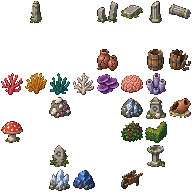
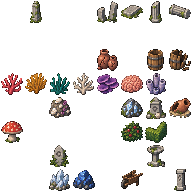
Replace the global pillar with selected tall pillar art

Changed region(s): [[0.9062, 0.875, 0.9688, 1.0]]

diff --git a/src/render.js b/src/render.js
@@ -4779,19 +4779,8 @@ Render.objectAppearance = function (scene, houseRoles) {
     // Stone pillar — decorative stand-in for OSM utility poles / posts.
     // Purely decorative: no interact.js branch matches 'pole', so taps fall
     // through.
-    // pillar.png is authored at 16px-per-cell (a 16×32 frame = 1 cell wide × 2
-    // tall in its native grid), but the game renders at 32px-per-cell (CELL_PX),
-    // like every other object sheet (trees are 32×48, etc.). At scale 1.0 the
-    // pole therefore drew at HALF size — a thin half-cell-wide stub — which read
-    // as "only half the sprite rendered". scale 2.0 maps the 16px art onto the
-    // 32px cell so it stands a full cell wide and ~2 cells tall (a proper pole);
-    // the seat pass then seats the now-taller-than-a-cell sprite with its base
-    // 1px above the cell's bottom edge (same as a tree).
-    // pillar.png's column art is symmetric and frame-centred (the earlier
-    // slice was cut off on the top and left; the art was redrawn complete),
-    // so a plain frame-centred origin works — the seat pass refines the
-    // final offsets from the trimmed bounds.
-    pole:   { key: 'pillar', origin: [0.5, 0.95], scale: 2.0, seat: true, shadow: true },
+    // Approved 24px pillar fills a 32px cell; shared by every mapped pole.
+    pole:   { key: 'pillar', frame: 0, origin: [0.5, 0.5], scale: 4 / 3, seat: true, shadow: true },
     // STREET VARIANT PROPS (src/street_variants.js). All 16px generated art
     // drawn at 1.6 (~26px) and SEATED in their one cell. The waystone stands
     // (a tap reads a page of the Book — INTERACTABLES.waystone); the tar pit

diff --git a/tools/sprite_audit.js b/tools/sprite_audit.js
@@ -254,7 +254,7 @@ const SHEETS = {
   mineralrock:   { file: 'assets/Objects/Approved/mineralrock.png',fw: 16, fh: 16, frames: [168, 169, 170, 171, 0, 1, 2, 3, 5, 6] },
   approved_charred_stakes: { file: 'assets/Objects/Approved/approved_charred_stakes.png', fw: 16, fh: 16, frames: [0] },
   well:          { file: 'assets/Objects/Wilderness/well.png',               fw: 30, fh: 32, frames: [0] },
-  pillar:        { file: 'assets/Objects/Approved/pillar.png',             fw: 16, fh: 32, frames: [0] },
+  pillar:        { file: ASSETS.pillar.path, fw: 24, fh: 24, frames: [0] },
   scarecrow:     { file: 'assets/Objects/Approved/scarecrow.png',               fw: 48, fh: 48, frames: [0] },
   bonfire:       { file: 'assets/Objects/Wilderness/bonfire.png',            fw: 16, fh: 32, frames: [0] },
   torch:         { file: 'assets/Objects/Wilderness/torch.png',              fw: 16, fh: 32, frames: [0] },
@@ -313,7 +313,7 @@ const SCENARIOS = [
   { name: 'crystal deposit', key: 'crystal_cluster', frameIdx: 0, scale: 1.28 },
   { name: 'ore rock',        key: 'mineralrock',   frameIdx: 0,   scale: 1.28 },
   { name: 'well',            key: 'well',          frameIdx: 0, scale: 0.9 },
-  { name: 'pole (pillar)',   key: 'pillar',        frameIdx: 0, scale: 2.0 },
+  { name: 'pole (pillar)',   key: 'pillar',        frameIdx: 0, scale: 4 / 3 },
   { name: 'scarecrow',       key: 'scarecrow',     frameIdx: 0, scale: 0.6 },
   { name: 'bonfire',         key: 'bonfire',       frameIdx: 0, scale: 1.1 },
   { name: 'torch',           key: 'torch',         frameIdx: 0, scale: 1.1 },

diff --git a/src/assets.js b/src/assets.js
@@ -154,15 +154,9 @@ const ASSETS = {
   pine_tree:     { kind: 'spritesheet', path: 'assets/Objects/Approved/pine_tree.png',     frameWidth: 32, frameHeight: 48 },
   // Mineral-bearing rocks — 176x272 sheet of 16x16 frames.
   mineralrock:    { kind: 'spritesheet', path: 'assets/Objects/Approved/mineralrock.png', frameWidth: 16, frameHeight: 16 },
-  // Stone pillar — 16×32 (1 cell wide × 2 tall): a fluted column with cap +
-  // stepped base. Originally sliced from a gitignored source sheet, but the
-  // slice rect clipped the column's top and left edge ("pole art is cut off"),
-  // so the art was redrawn complete and symmetric in the same palette. Used as
-  // a purely decorative stand-in for OSM utility poles / posts (power=pole,
-  // man_made=mast, barrier=bollard, highway=street_lamp) — no interaction.
-  // Authored at 16px-per-cell, so RENDER_SPEC.pole draws it at scale 2.0 to
-  // match the game's 32px cell (1 cell wide × ~2 tall — a full-height pole).
-  pillar:         { kind: 'image', path: 'assets/Objects/Approved/pillar.png' },
+  // Selected tall pillar (#63), replacing the global mapped-pole sprite.
+  // One 24px frame displayed in a 32px cell; purely decorative as before.
+  pillar:         { kind: 'spritesheet', path: 'assets/Objects/ZoneVariants/tall_pillar.png', frameWidth: 24, frameHeight: 24 },
   // STREET VARIANTS (src/street_variants.js): the generated 16px props (see
   // assets/Objects/Generated/README.md — placeholders): the pilgrim's
   // waystone, the barricade, and the burned row's tar pit and iron stakes

diff --git a/index.html b/index.html
@@ -2740,7 +2740,7 @@
   <script src="src/quarry_layout.js?v=ef68626f"></script>
   <script src="src/zone_dressing.js?v=829394d0"></script>
   <script src="src/reef_layout.js?v=4f859489"></script>
-  <script src="src/sprite_layout.js?v=c4782d90"></script>
+  <script src="src/sprite_layout.js?v=eef07e43"></script>
   <script src="src/placed_floor.js?v=d6c42e37"></script>
   <script src="src/home.js?v=e3fcba80"></script>
   <script src="src/coords.js?v=bbbf323b"></script>
@@ -2783,11 +2783,11 @@
   <script src="src/interact.js?v=eb9c43f1"></script>
   <script src="src/play_tips.js?v=e68833b6"></script>
   <script src="src/lighting.js?v=8dc03d32"></script>
-  <script src="src/render.js?v=8c8989f2"></script>
+  <script src="src/render.js?v=39f6cfd9"></script>
   <script src="src/multiplayer.js?v=04fb3ba8"></script>
   <script src="src/road_overlay.js?v=990bf881"></script>
   <script src="src/building_overlay.js?v=18003bd2"></script>
-  <script src="src/assets.js?v=4cf63482"></script>
+  <script src="src/assets.js?v=faf44a87"></script>
   <script src="src/sandbox.js?v=9377bbd1"></script>
   <script src="src/testtools.js?v=e112a59e"></script>
   <script src="src/geo.js?v=0a205c42"></script>

diff --git a/src/sprite_layout.js b/src/sprite_layout.js
@@ -69,7 +69,7 @@
     'mineralrock:6': { fw: 16, fh: 16, minX: 2, minY: 4, maxX: 13, maxY: 14 },
     'approved_charred_stakes:0': { fw: 16, fh: 16, minX: 4, minY: 0, maxX: 12, maxY: 16 },
     'well:0': { fw: 30, fh: 32, minX: 2, minY: 0, maxX: 30, maxY: 32 },
-    'pillar:0': { fw: 16, fh: 32, minX: 1, minY: 0, maxX: 15, maxY: 28 },
+    'pillar:0': { fw: 24, fh: 24, minX: 6, minY: 1, maxX: 18, maxY: 23 },
     'scarecrow:0': { fw: 48, fh: 48, minX: 3, minY: 8, maxX: 45, maxY: 47 },
     'bonfire:0': { fw: 16, fh: 32, minX: 1, minY: 9, maxX: 14, maxY: 31 },
     'torch:0': { fw: 16, fh: 32, minX: 5, minY: 5, maxX: 12, maxY: 32 },

diff --git a/sw.js b/sw.js
@@ -9,7 +9,7 @@
 //      so they're safe to cache forever. Strategy: cache-first with network
 //      fallback. This makes a visited region playable offline.
 
-const SHELL_VERSION = 'shell-9d51bb6a';
+const SHELL_VERSION = 'shell-5df232cd';
 const TILE_CACHE    = 'tiles-v1';
 // How old a cached tile may get before it is refreshed IN THE BACKGROUND. It
 // is never an expiry: a stale tile is still served, and a failed refresh keeps

diff --git a/tools/preview_zone_objects.py b/tools/preview_zone_objects.py
@@ -94,7 +94,7 @@ assign(58,59,'Variant','Quarries; Mystic Reef (optional)','Existing crystal-depo
 assign(60,60,'Variant','Stone Garden; Silent Circle','Existing shrine-role art candidate; no one-to-one replacement assigned.',('grove_votive',0),'Existing generic shrine reference')
 assign(61,61,'New prop','Abandoned Quarry; Work Yard; Broken Depot','New decorative handcart. The generated sprite is wooden; no transport or storage mechanic defined.')
 assign(62,62,'New prop','Broken Masonry; Ruined Stronghold','New stacked-column-drum decoration.')
-assign(63,63,'Zone-replacement','Silent Circle; Stone Garden; Ruined Stronghold','Replace stone-marker objects with a new tall-pillar type only in these zones. Preserve global stones and utility poles; interactions remain to be specified.',('mineralrock',171),'Current churchyard stone marker')
+assign(63,63,'Total-replacement','Global pillar / mapped pole locations','Replaces the existing pillar sprite everywhere it is used. Same decorative mapped-pole role; selected 24px art displayed at32px.',('pillar',0),'Previous global stone pillar')
 
 rows = [r for r in rows if r['frame'] in selection['selectedFrames']]
 for r in rows:
@@ -145,7 +145,7 @@ for r in rows:
     body.append(f'''<tr data-status="{r['status']}" data-type="{r['category']}"><td><small>R{r['row']+1} C{r['column']+1} · #{r['frame']}</small><strong>{esc(name)}</strong></td><td><div class="newart"><div class="cell"><img src="{r['image']}" width="32" height="32" alt="{esc(name)}"></div><img class="zoom" src="{r['image']}" width="96" height="96" alt="{esc(name)} enlarged"></div><small>32px cell · 3× detail</small>{used}</td><td>{oldhtml}</td><td><span class="badge {r['status'].lower()}">{r['status']}</span><br>{r['category']}</td><td>{zones}</td><td>{esc(r['note'])}</td></tr>''')
 page='''<!doctype html><html lang="en"><meta charset="utf-8"><meta name="viewport" content="width=device-width,initial-scale=1"><title>Zone object review — 24px art</title><style>
 *{box-sizing:border-box}body{margin:0;background:#17201d;color:#eef0e5;font:14px/1.5 system-ui}header{padding:28px 32px 16px;max-width:1160px}h1{margin:0 0 12px;font-size:28px}p{margin:8px 0}a{color:#a9dfd5}nav{position:sticky;top:0;z-index:3;background:#202d26;padding:12px 32px;display:flex;gap:12px;align-items:center;flex-wrap:wrap;border-bottom:1px solid #52644f}input,select{font:inherit;background:#101a16;color:inherit;padding:8px;border:1px solid #6a7a62;border-radius:4px}input{width:270px}label{display:flex;gap:8px;align-items:center}.tablewrap{overflow:auto;padding:0 24px 32px}table{border-collapse:collapse;width:100%;min-width:1100px}th{text-align:left;background:#26362c;padding:12px}td{padding:16px 12px;border-bottom:1px solid #415042;vertical-align:top}tr:nth-child(even){background:#1d2922}td:first-child{width:185px}td:nth-child(2){width:200px}td:nth-child(3){width:210px}td:nth-child(4){width:115px}td:nth-child(5){width:240px}small,.muted{color:#b4c0af;font-size:12px}td strong{display:block;font-weight:550}img{image-rendering:pixelated;object-fit:contain}.newart{display:flex;align-items:center;gap:20px;height:100px}.cell{width:32px;height:32px;outline:1px solid #9db098;background:#455039;flex:none}.zoom{background:#35412f;outline:1px solid #5a6b50}.oldart{height:70px;display:flex;align-items:center}.oldart img{width:64px;height:64px;object-fit:contain}details{font-size:11px;margin-top:6px}code{overflow-wrap:anywhere}.badge{display:inline-block;border:1px solid #9b9c70;border-radius:12px;padding:1px 8px;margin-bottom:8px}.live{background:#285941;border-color:#81c39a}.zone{display:block;margin-bottom:5px}#count{margin-left:auto}tr[hidden]{display:none}
-</style><header><h1>Zone object review</h1><p><b>Selected: 24×24 source sprites, framed at 32×32 game pixels (scale 4/3).</b> Each proposed sprite is shown in one 32px cell, plus a 3× enlargement. Transparent padding leaves a little breathing room. Nearest-neighbour display keeps hard edges; 4/3 scaling produces uneven pixel widths.</p><p><b>Selected art only.</b> These choices are installed; unselected proposals are discarded from this review. Original # numbers are retained for reference. Connected walls and hedges use their derived tile sets. The #53/#63 pillar selection is awaiting clarification.</p><p><b>Type key:</b> Total-replacement = replace an old sprite everywhere it is used, retaining the existing object type. Variant = another appearance of the same object type. <b>Zone-replacement = replace an existing object with a new type in specified zones, preserving the original global object and art.</b> New prop / concept = an addition with no replacement assigned. For zone-replacements, the comparison shows the object being displaced locally.</p><p>Current-art comparisons use exact asset frames, enlarged to fit a 64px reference box for recognition; that column is <b>not a measurement of current game scale</b>. Generic shrine references and example growth stages are explicitly labeled. Walls currently use rock cells.</p><p><a href="../stronghold-walls/">Installed square-grid stronghold wall set</a> · <a href="objects-24.png">24px spritesheet</a> · <a href="catalog.json">Structured catalog JSON</a> · <a href="/tools/world-art.html">World art catalog</a> · <a href="../road-review/tools/map-review.html">Map review</a></p></header><nav><label>Search <input id="search" type="search" placeholder="Name, zone, or notes…"></label><label>Status <select id="status"><option value="">All</option><option>Live</option><option>Preview</option></select></label><label>Type <select id="type"><option value="">All</option><option>Total-replacement</option><option>Variant</option><option>Zone-replacement</option><option>New prop</option><option>New concept</option></select></label><span id="count" aria-live="polite">Selected objects</span></nav><div class="tablewrap"><table><thead><tr><th scope="col">Object / sheet position</th><th scope="col">Selected 24px art → 32px</th><th scope="col">Current / previous art</th><th scope="col">Status / type</th><th scope="col">Zones / scope</th><th scope="col">Implementation notes</th></tr></thead><tbody>'''+''.join(body)+'''</tbody></table></div><script>
+</style><header><h1>Zone object review</h1><p><b>Selected: 24×24 source sprites, framed at 32×32 game pixels (scale 4/3).</b> Each proposed sprite is shown in one 32px cell, plus a 3× enlargement. Transparent padding leaves a little breathing room. Nearest-neighbour display keeps hard edges; 4/3 scaling produces uneven pixel widths.</p><p><b>Selected art only.</b> These choices are installed; unselected proposals are discarded from this review. Original # numbers are retained for reference. Connected walls and hedges use their derived tile sets.</p><p><b>Type key:</b> Total-replacement = replace an old sprite everywhere it is used, retaining the existing object type. Variant = another appearance of the same object type. <b>Zone-replacement = replace an existing object with a new type in specified zones, preserving the original global object and art.</b> New prop / concept = an addition with no replacement assigned. For zone-replacements, the comparison shows the object being displaced locally.</p><p>Current-art comparisons use exact asset frames, enlarged to fit a 64px reference box for recognition; that column is <b>not a measurement of current game scale</b>. Generic shrine references and example growth stages are explicitly labeled. The old wall comparison shows the stones replaced by the connected wall set.</p><p><a href="../stronghold-walls/">Installed square-grid stronghold wall set</a> · <a href="objects-24.png">24px spritesheet</a> · <a href="catalog.json">Structured catalog JSON</a> · <a href="/tools/world-art.html">World art catalog</a> · <a href="../road-review/tools/map-review.html">Map review</a></p></header><nav><label>Search <input id="search" type="search" placeholder="Name, zone, or notes…"></label><label>Status <select id="status"><option value="">All</option><option>Live</option><option>Preview</option></select></label><label>Type <select id="type"><option value="">All</option><option>Total-replacement</option><option>Variant</option><option>Zone-replacement</option><option>New prop</option><option>New concept</option></select></label><span id="count" aria-live="polite">Selected objects</span></nav><div class="tablewrap"><table><thead><tr><th scope="col">Object / sheet position</th><th scope="col">Selected 24px art → 32px</th><th scope="col">Current / previous art</th><th scope="col">Status / type</th><th scope="col">Zones / scope</th><th scope="col">Implementation notes</th></tr></thead><tbody>'''+''.join(body)+'''</tbody></table></div><script>
 const rows=[...document.querySelectorAll('tbody tr')],search=document.querySelector('#search'),statusSelect=document.querySelector('#status'),typeSelect=document.querySelector('#type');function filter(){let count=0;for(const row of rows){row.hidden=!!((statusSelect.value&&row.dataset.status!==statusSelect.value)||(typeSelect.value&&row.dataset.type!==typeSelect.value)||!row.textContent.toLowerCase().includes(search.value.toLowerCase()));if(!row.hidden)count++;}document.querySelector('#count').textContent=count+' / Selected objects';}for(const el of [search,statusSelect,typeSelect])el.addEventListener('input',filter);
 </script></html>'''
 (out/'index.html').write_text(page)
